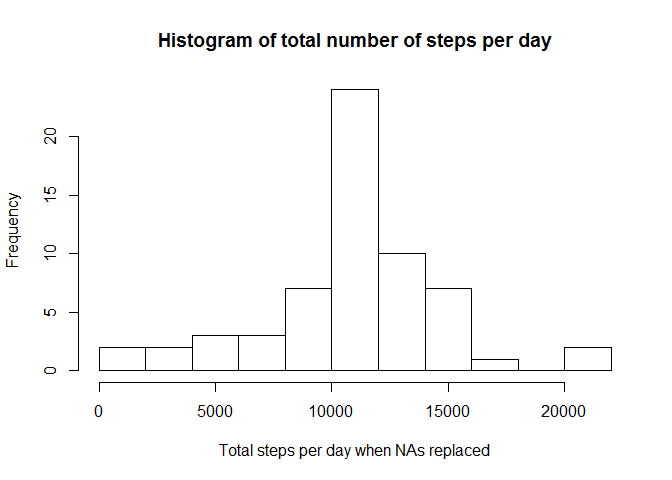
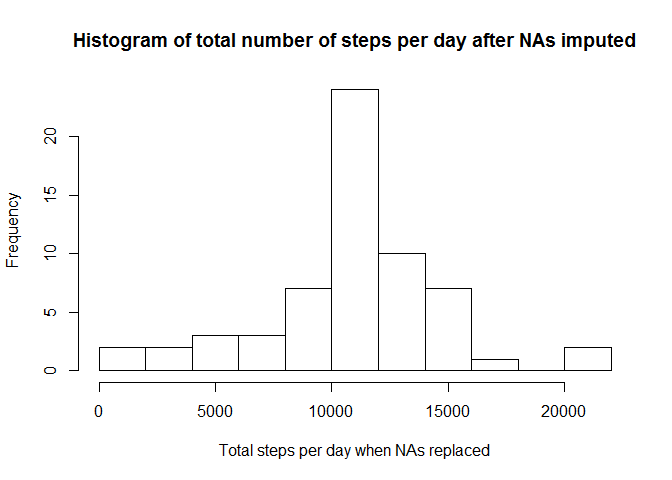
another commit

Changed region(s): [[0.0938, 0.0625, 0.9688, 0.125]]

diff --git a/PA1_template.html b/PA1_template.html
@@ -159,10 +159,10 @@ if (window.hljs && document.readyState && document.readyState === "complete") {
   ## make histogram of total number of steps per day with NAs replace
   names(moves.daily.replaceNA)[2]=&quot;steps&quot;
   hist(moves.daily.replaceNA$steps, 
-       main=&quot;Histogram of total number of steps per day&quot;, 
+       main=&quot;Histogram of total number of steps per day after NAs imputed&quot;, 
        xlab=&quot;Total steps per day when NAs replaced&quot;,
        breaks=10)</code></pre>
[2 lines of base64/hex data omitted]
 <pre class="r"><code>  ## calculate mean and median for daily steps
   moves.daily.replaceNA.mean &lt;- mean(moves.daily.replaceNA$steps)
   moves.daily.replaceNA.median &lt;- median(moves.daily.replaceNA$steps)
@@ -180,12 +180,62 @@ if (window.hljs && document.readyState && document.readyState === "complete") {
 <div id="the-difference-between-the-mean-of-the-total-number-of-steps-taken-per-day-with-no-na-values-vs.replacing-the-nas-with-the-average-steps-per-interval-is-0-which-is-kind-of-expected-." class="section level4">
 <h4>The difference between the mean of the total number of steps taken per day with no NA values vs. replacing the NAs with the average steps per interval is 0 (which is kind of expected:-).</h4>
 </div>
-<div id="the-difference-between-the-median-of-the-total-number-of-steps-taken-per-day-with-no-na-values-vs.replacing-the-nas-with-the-average-steps-per-interval-is--1.1886792.-this-happens-because-several-days-have-no-values-all-nas-and-therefore-every-interval-gets-replaced-with-the-same-average-causing-all-of-these-days-to-have-the-same-total-number-of-steps---so-lots-of-the-same-median-values-to-pick-from." class="section level4">
-<h4>The difference between the median of the total number of steps taken per day with no NA values vs. replacing the NAs with the average steps per interval is -1.1886792. This happens because several days have no values (all NAs), and therefore every interval gets replaced with the same average, causing all of these days to have the same total number of steps - so lots of the same “median” values to pick from.</h4>
+<div id="the-difference-between-the-median-of-the-total-number-of-steps-taken-per-day-with-no-na-values-vs.replacing-the-nas-with-the-average-steps-per-interval-is--1.1886792.-this-happens-because-several-days-have-no-values-all-nas-and-therefore-every-interval-gets-replaced-with-the-same-average-causing-all-of-these-days-to-have-the-same-total-number-of-steps---so-lots-of-identical-median-values-to-pick-from." class="section level4">
+<h4>The difference between the median of the total number of steps taken per day with no NA values vs. replacing the NAs with the average steps per interval is -1.1886792. This happens because several days have no values (all NAs), and therefore every interval gets replaced with the same average, causing all of these days to have the same total number of steps - so lots of identical “median” values to pick from.</h4>
 </div>
 </div>
 <div id="are-there-differences-in-activity-patterns-between-weekdays-and-weekends" class="section level2">
 <h2>Are there differences in activity patterns between weekdays and weekends?</h2>
+<pre class="r"><code>  ## convert dates and &quot;military time&quot; to POSIXct times
+  ## add new column representing a weekday or weekend day
+  moves.replaceNA$interval.seconds &lt;- ((moves.replaceNA$interval %/% 100) * 3600) + ((moves.replaceNA$interval %% 100) * 60)
+  moves.replaceNA$date &lt;- as.POSIXct(moves.replaceNA$date)
+  moves.replaceNA$date.time &lt;- moves.replaceNA$date + moves.replaceNA$interval.seconds
+  moves.replaceNA$day.of.week=weekdays(moves.replaceNA$date.time)
+
+  ## swap the weekday name for 'weekday' or 'weekend'
+  moves.replaceNA$day.of.week &lt;- gsub(&quot;Monday&quot;,&quot;weekday&quot;,moves.replaceNA$day.of.week)
+  moves.replaceNA$day.of.week &lt;- gsub(&quot;Tuesday&quot;,&quot;weekday&quot;,moves.replaceNA$day.of.week)
+  moves.replaceNA$day.of.week &lt;- gsub(&quot;Wednesday&quot;,&quot;weekday&quot;,moves.replaceNA$day.of.week)
+  moves.replaceNA$day.of.week &lt;- gsub(&quot;Thursday&quot;,&quot;weekday&quot;,moves.replaceNA$day.of.week)
+  moves.replaceNA$day.of.week &lt;- gsub(&quot;Friday&quot;,&quot;weekday&quot;,moves.replaceNA$day.of.week)
+  moves.replaceNA$day.of.week &lt;- gsub(&quot;Saturday&quot;,&quot;weekend&quot;,moves.replaceNA$day.of.week)
+  moves.replaceNA$day.of.week &lt;- gsub(&quot;Sunday&quot;,&quot;weekend&quot;,moves.replaceNA$day.of.week)
+  
+  ## create a factor with the days separated into weekday or weekend
+  moves.replaceNA$day.of.week.fac &lt;- factor(moves.replaceNA$day.of.week, labels=c(&quot;weekday&quot;,&quot;weekend&quot;))
+
+  ## final plot comparing activity on weekdays vs. weekends
+  par(mfrow = c(2, 1))
+  
+  ## weekdays
+  moves.weekday &lt;- aggregate(steps ~ interval, data=subset(moves.replaceNA,day.of.week.fac==&quot;weekday&quot;), mean)
+  moves.weekday$interval &lt;- as.character.Date(moves.weekday$interval)
+  
+  plot(moves.weekday$interval, moves.weekday$steps, 
+       type=&quot;l&quot;, 
+       main=&quot;Weekdays - Average number of steps for each 5-minute interval&quot;,
+       xlab=&quot;5-minute interval during day&quot;, 
+       ylab=&quot;Steps&quot;, 
+       col=&quot;blue&quot;, 
+       axes=F)
+  axis(side=1, at=moves.weekday$interval)
+  axis(side=2, at=round(moves.weekday$steps,0))
+  
+  ## weekends
+  moves.weekend &lt;- aggregate(steps ~ interval, data=subset(moves.replaceNA,day.of.week.fac==&quot;weekend&quot;), mean)
+  moves.weekend$interval &lt;- as.character.Date(moves.weekend$interval)
+  
+  plot(moves.weekend$interval, moves.weekend$steps, 
+       type=&quot;l&quot;, 
+       main=&quot;Weekends - Average number of steps for each 5-minute interval&quot;,
+       xlab=&quot;5-minute interval during day&quot;, 
+       ylab=&quot;Steps&quot;, 
+       col=&quot;green&quot;, 
+       axes=F)
+  axis(side=1, at=moves.weekend$interval)
+  axis(side=2, at=round(moves.weekend$steps,0))</code></pre>
[1 lines of base64/hex data omitted]
 </div>
 
 

diff --git a/PA1_template.md b/PA1_template.md
@@ -84,6 +84,9 @@ Robert Ross - 2015.01.18
 
 
 
+
+
+
 ## What is the average daily activity pattern?
 
 
@@ -147,7 +150,7 @@ Robert Ross - 2015.01.18
   ## make histogram of total number of steps per day with NAs replace
   names(moves.daily.replaceNA)[2]="steps"
   hist(moves.daily.replaceNA$steps, 
-       main="Histogram of total number of steps per day", 
+       main="Histogram of total number of steps per day after NAs imputed", 
        xlab="Total steps per day when NAs replaced",
        breaks=10)
 ```
@@ -173,9 +176,64 @@ Robert Ross - 2015.01.18
 #### The difference between the mean of the total number of steps taken per day with no NA values vs. replacing the NAs with the average steps per interval is 0 (which is kind of expected:-).
 
 
-#### The difference between the median of the total number of steps taken per day with no NA values vs. replacing the NAs with the average steps per interval is -1.1886792. This happens because several days have no values (all NAs), and therefore every interval gets replaced with the same average, causing all of these days to have the same total number of steps - so lots of the same "median" values to pick from.
+#### The difference between the median of the total number of steps taken per day with no NA values vs. replacing the NAs with the average steps per interval is -1.1886792. This happens because several days have no values (all NAs), and therefore every interval gets replaced with the same average, causing all of these days to have the same total number of steps - so lots of identical "median" values to pick from.
 
 
 
 
 ## Are there differences in activity patterns between weekdays and weekends?
+
+
+```r
+  ## convert dates and "military time" to POSIXct times
+  ## add new column representing a weekday or weekend day
+  moves.replaceNA$interval.seconds <- ((moves.replaceNA$interval %/% 100) * 3600) + ((moves.replaceNA$interval %% 100) * 60)
+  moves.replaceNA$date <- as.POSIXct(moves.replaceNA$date)
+  moves.replaceNA$date.time <- moves.replaceNA$date + moves.replaceNA$interval.seconds
+  moves.replaceNA$day.of.week=weekdays(moves.replaceNA$date.time)
+
+  ## swap the weekday name for 'weekday' or 'weekend'
+  moves.replaceNA$day.of.week <- gsub("Monday","weekday",moves.replaceNA$day.of.week)
+  moves.replaceNA$day.of.week <- gsub("Tuesday","weekday",moves.replaceNA$day.of.week)
+  moves.replaceNA$day.of.week <- gsub("Wednesday","weekday",moves.replaceNA$day.of.week)
+  moves.replaceNA$day.of.week <- gsub("Thursday","weekday",moves.replaceNA$day.of.week)
+  moves.replaceNA$day.of.week <- gsub("Friday","weekday",moves.replaceNA$day.of.week)
+  moves.replaceNA$day.of.week <- gsub("Saturday","weekend",moves.replaceNA$day.of.week)
+  moves.replaceNA$day.of.week <- gsub("Sunday","weekend",moves.replaceNA$day.of.week)
+  
+  ## create a factor with the days separated into weekday or weekend
+  moves.replaceNA$day.of.week.fac <- factor(moves.replaceNA$day.of.week, labels=c("weekday","weekend"))
+
+  ## final plot comparing activity on weekdays vs. weekends
+  par(mfrow = c(2, 1))
+  
+  ## weekdays
+  moves.weekday <- aggregate(steps ~ interval, data=subset(moves.replaceNA,day.of.week.fac=="weekday"), mean)
+  moves.weekday$interval <- as.character.Date(moves.weekday$interval)
+  
+  plot(moves.weekday$interval, moves.weekday$steps, 
+       type="l", 
+       main="Weekdays - Average number of steps for each 5-minute interval",
+       xlab="5-minute interval during day", 
+       ylab="Steps", 
+       col="blue", 
+       axes=F)
+  axis(side=1, at=moves.weekday$interval)
+  axis(side=2, at=round(moves.weekday$steps,0))
+  
+  ## weekends
+  moves.weekend <- aggregate(steps ~ interval, data=subset(moves.replaceNA,day.of.week.fac=="weekend"), mean)
+  moves.weekend$interval <- as.character.Date(moves.weekend$interval)
+  
+  plot(moves.weekend$interval, moves.weekend$steps, 
+       type="l", 
+       main="Weekends - Average number of steps for each 5-minute interval",
+       xlab="5-minute interval during day", 
+       ylab="Steps", 
+       col="green", 
+       axes=F)
+  axis(side=1, at=moves.weekend$interval)
+  axis(side=2, at=round(moves.weekend$steps,0))
+```
+
+![](PA1_template_files/figure-html/unnamed-chunk-8-1.png) 
